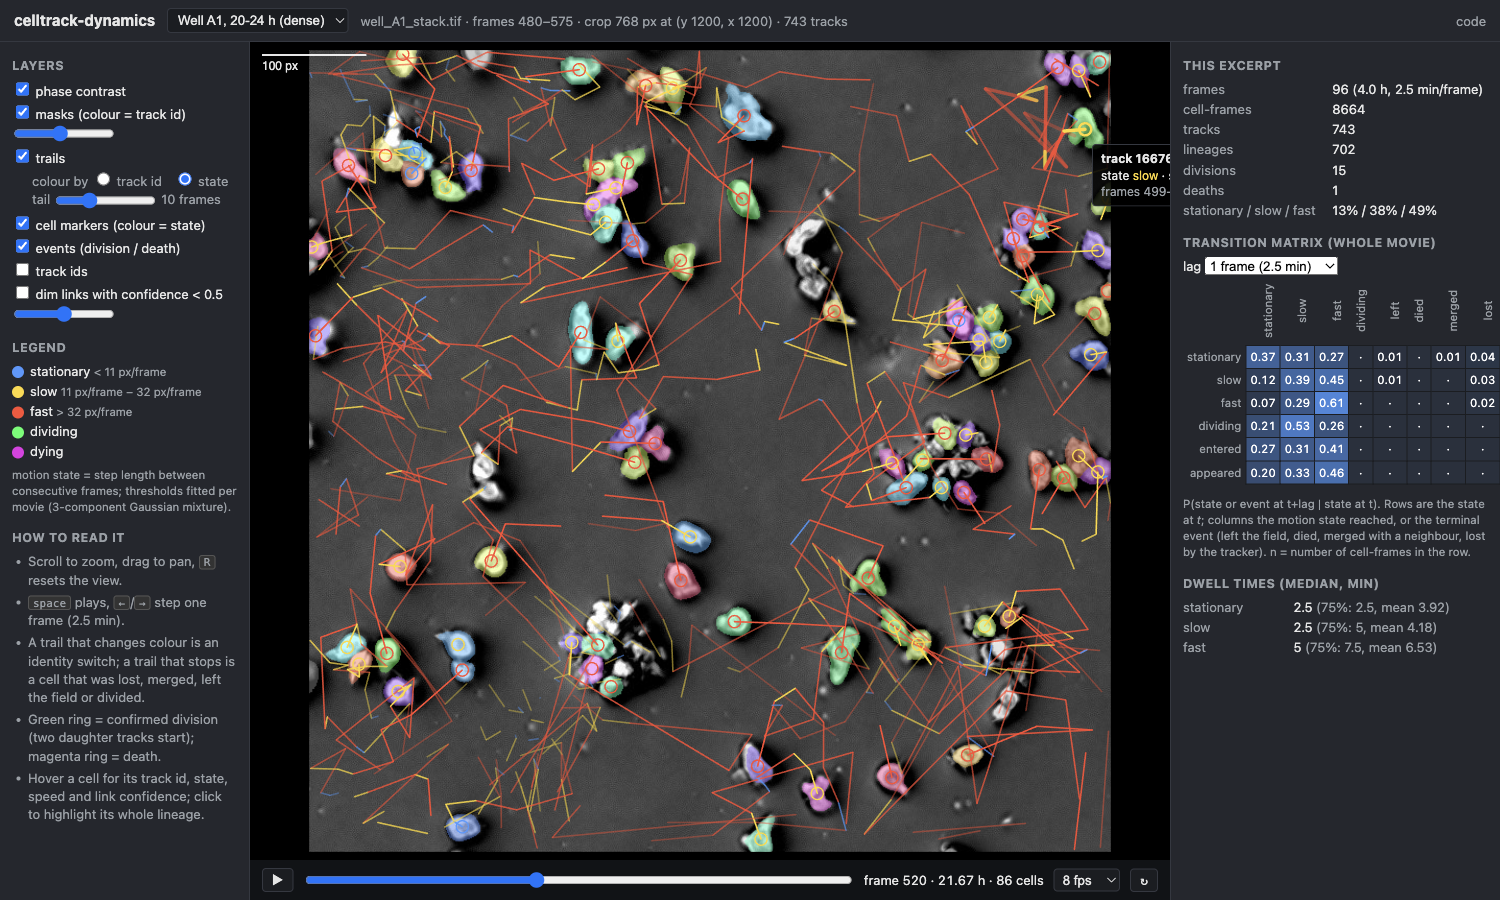
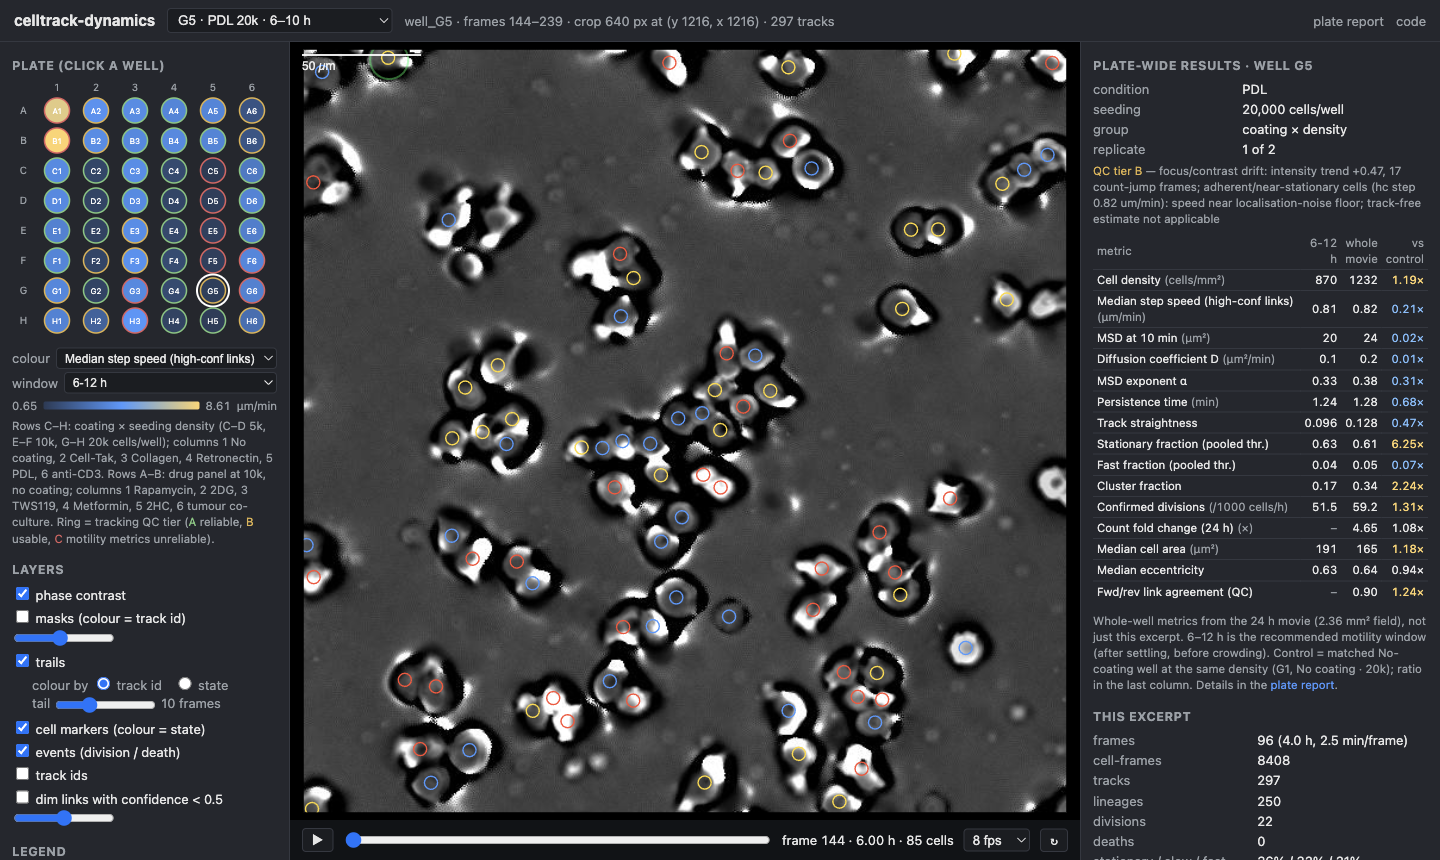
Web viewer: plate-map well selector, per-well plate-wide results panel; export-web --well/--source/--quality/--min-cells

diff --git a/demo/web/app.js b/demo/web/app.js
@@ -23,10 +23,20 @@ const rgb = (c, a = 1) => `rgba(${c[0]},${c[1]},${c[2]},${a})`;
 
 // ----------------------------------------------------------------------------- data
 async function loadIndex() {
-  const idx = await (await fetch("data/index.json")).json();
-  UI.dataset.innerHTML = idx.map((e) => `<option value="${e.tag}">${e.label}</option>`).join("");
-  const want = new URLSearchParams(location.search).get("d");
+  const [idx, plate] = await Promise.all([
+    fetch("data/index.json").then((r) => r.json()),
+    fetch("data/plate.json").then((r) => (r.ok ? r.json() : null)).catch(() => null),
+  ]);
+  S.index = idx; S.plate = plate;
+  S.tagByWell = new Map(idx.filter((e) => e.well).map((e) => [e.well, e.tag]));
+  const opt = (e) => `<option value="${e.tag}">${e.label}</option>`;
+  const wells = idx.filter((e) => e.well).sort((a, b) => a.well.localeCompare(b.well, undefined, { numeric: true })), other = idx.filter((e) => !e.well);
+  UI.dataset.innerHTML = (wells.length ? `<optgroup label="Plate wells (6–10 h excerpts)">${wells.map(opt).join("")}</optgroup>` : "") +
+    (other.length ? `<optgroup label="Other excerpts">${other.map(opt).join("")}</optgroup>` : "");
+  const q = new URLSearchParams(location.search), want = q.get("d") || (q.get("w") && S.tagByWell.get(q.get("w").toUpperCase()));
   if (want && idx.some((e) => e.tag === want)) UI.dataset.value = want;
+  else if (S.tagByWell.has("E1")) UI.dataset.value = S.tagByWell.get("E1");   // default: a tier-A control well
+  if (plate) initPlate();
   await loadDataset(UI.dataset.value);
 }
 
@@ -40,10 +50,10 @@ async function loadDataset(tag) {
   S.byFrame = Array.from({ length: meta.n_frames }, () => []);
   for (const k of S.tracks) k.pts.forEach((p, i) => S.byFrame[p[0]].push({ track: k, i }));
   S.frames = new Array(meta.n_frames).fill(null); S.masks = new Array(meta.n_frames).fill(null);
-  history.replaceState(null, "", `?d=${tag}`);
+  history.replaceState(null, "", meta.well ? `?w=${meta.well}` : `?d=${tag}`);
   $("title").textContent = `${meta.source}  ·  frames ${meta.start}–${meta.stop - 1}  ·  crop ${meta.crop[2]} px at (y ${meta.crop[0]}, x ${meta.crop[1]})  ·  ${meta.n_tracks} tracks`;
   UI.time.max = meta.n_frames - 1; S.t = 0; UI.time.value = 0;
-  renderLegend(); renderStats(); renderMatrix(); renderDwell(); renderSelection();
+  renderLegend(); renderStats(); renderMatrix(); renderDwell(); renderSelection(); renderWell(); markCurrentWell();
   resetView();
   // preload frames progressively (first the current one)
   frameImage(0); await awaitImg(S.frames[0]);
@@ -200,6 +210,98 @@ function renderSelection() {
     "frames": `${S.meta.start + f0} – ${S.meta.start + f1}`, "cell-frames": n, "mean step": `${mean.toFixed(1)} px/frame`,
     "divisions": ks.filter((k) => k.end === "divided").length, "ends": ks.map((k) => k.end || "outside excerpt").join(", "),
   });
+  sec.hidden = false;
+}
+
+// ----------------------------------------------------------------------------- plate map + plate-wide results
+const PLATE_ROWS = "ABCDEFGH", PLATE_COLS = [1, 2, 3, 4, 5, 6];
+const WELL_METRICS = ["cells_per_mm2", "hc_median_step_um_min", "msd_10min_um2", "D_um2_per_min", "msd_alpha", "persistence_time_min",
+  "median_straightness", "frac_stationary", "frac_fast", "cluster_fraction", "division_rate_per_1000cells_h", "count_fold_change",
+  "median_area_um2", "median_eccentricity", "bidir_fraction_full"];
+const wellOf = (meta) => meta.well || ((meta.source || "").match(/well_([A-H]\d+)/) || [])[1] || null;
+const plateWell = (w) => S.plate && S.plate.wells.find((x) => x.well === w);
+function controlOf(w) { return w.group === "drug" ? plateWell(w.row === "A" ? "E1" : "F1") : plateWell(`${w.row}1`); }
+function metricVal(w, metric, win) { const m = w.m[metric]; if (!m) return undefined; return m[win] !== undefined ? m[win] : m.all; }
+function fmtVal(v, dec) { return v === undefined || v === null || Number.isNaN(v) ? "–" : (+v).toFixed(dec); }
+function condLabel(w) { return `${w.condition}${w.group === "coating" ? ` · ${w.density / 1000}k` : ""}`; }
+/* 3-stop colour map (dark blue → accent → amber), u in [0,1] */
+function cmap(u) {
+  const st = [[42, 58, 85], [76, 153, 255], [255, 211, 106]]; u = Math.max(0, Math.min(1, u)) * 2;
+  const i = Math.min(1, Math.floor(u)), f = u - i, a = st[i], b = st[i + 1];
+  return `rgb(${a.map((x, k) => Math.round(x + (b[k] - x) * f)).join(",")})`;
+}
+
+function initPlate() {
+  const P = S.plate, pm = $("plate-metric"), pw = $("plate-window");
+  pm.innerHTML = Object.entries(P.metrics).filter(([k]) => WELL_METRICS.includes(k)).map(([k, v]) => `<option value="${k}">${v[0]}</option>`).join("");
+  pm.value = "hc_median_step_um_min";
+  pw.innerHTML = P.windows.map((w) => `<option value="${w}">${w === "all" ? "whole movie" : w.replace("h", " h")}</option>`).join("");
+  pw.value = "6-12h";
+  pm.onchange = pw.onchange = () => { drawPlate(); renderWell(); };
+  // static geometry: 6 columns × 8 rows, labels on the top/left
+  const svg = $("plate"), X0 = 24, Y0 = 16, DX = 39, DY = 30, R = 12.5;
+  let h = PLATE_COLS.map((c, j) => `<text x="${X0 + j * DX + DX / 2}" y="11" text-anchor="middle">${c}</text>`).join("");
+  [...PLATE_ROWS].forEach((r, i) => { h += `<text x="10" y="${Y0 + i * DY + DY / 2 + 3.5}" text-anchor="middle">${r}</text>`; });
+  for (const w of P.wells) {
+    const cx = X0 + (w.col - 1) * DX + DX / 2, cy = Y0 + PLATE_ROWS.indexOf(w.row) * DY + DY / 2;
+    h += `<g data-well="${w.well}"><circle class="cur" cx="${cx}" cy="${cy}" r="${R + 3.5}" fill="none" stroke="none" stroke-width="2"/>` +
+      `<circle class="well tier-${w.tier || "x"}" data-well="${w.well}" cx="${cx}" cy="${cy}" r="${R}" fill="#333"/>` +
+      `<text class="lbl" x="${cx}" y="${cy + 3}">${w.well}</text></g>`;
+  }
+  svg.innerHTML = h;
+  svg.onclick = (e) => { const g = e.target.closest("[data-well]"); if (!g) return; const tag = S.tagByWell.get(g.dataset.well); if (tag) { UI.dataset.value = tag; loadDataset(tag); } };
+  const tip = $("plate-tip"), sec = $("plate-section");
+  svg.onmousemove = (e) => {
+    const g = e.target.closest("[data-well]"); if (!g) { tip.hidden = true; return; }
+    const w = plateWell(g.dataset.well), m = P.metrics[pm.value], v = metricVal(w, pm.value, pw.value);
+    tip.innerHTML = `<b>${w.well}</b> · ${condLabel(w)} · tier ${w.tier || "?"}<br><span class="muted">${m[0]}:</span> ${fmtVal(v, m[2])} ${m[1]}` +
+      (S.tagByWell.has(w.well) ? "" : `<br><span class="muted">no excerpt exported</span>`);
+    const r = sec.getBoundingClientRect(); tip.style.left = `${Math.min(e.clientX - r.left + 12, r.width - 170)}px`; tip.style.top = `${e.clientY - r.top + 12}px`; tip.hidden = false;
+  };
+  svg.onmouseleave = () => { tip.hidden = true; };
+  drawPlate();
+}
+function drawPlate() {
+  const P = S.plate; if (!P) return;
+  const metric = $("plate-metric").value, win = $("plate-window").value, m = P.metrics[metric];
+  const vals = P.wells.map((w) => metricVal(w, metric, win)).filter((v) => typeof v === "number" && !Number.isNaN(v));
+  const lo = Math.min(...vals), hi = Math.max(...vals), span = hi - lo || 1;
+  for (const w of P.wells) {
+    const v = metricVal(w, metric, win), el = $("plate").querySelector(`circle.well[data-well="${w.well}"]`);
+    el.setAttribute("fill", typeof v === "number" && !Number.isNaN(v) ? cmap((v - lo) / span) : "#333");
+  }
+  const onlyAll = vals.length && P.wells.every((w) => !w.m[metric] || w.m[metric][win] === undefined);
+  $("plate-scale").innerHTML = `<span>${fmtVal(lo, m[2])}</span><span class="bar"></span><span>${fmtVal(hi, m[2])}</span>` +
+    `<span>${m[1]}${onlyAll && win !== "all" ? " (whole movie)" : ""}</span>`;
+}
+function markCurrentWell() {
+  if (!S.plate) return;
+  const cur = S.meta && wellOf(S.meta);
+  for (const g of $("plate").querySelectorAll("g[data-well]")) g.querySelector(".cur").setAttribute("stroke", g.dataset.well === cur ? "#fff" : "none");
+}
+function renderWell() {
+  const sec = $("well-section"), w = S.plate && S.meta && plateWell(wellOf(S.meta));
+  if (!w) { sec.hidden = true; return; }
+  const P = S.plate, ctrl = controlOf(w), isCtrl = ctrl && ctrl.well === w.well, win = $("plate-window").value;
+  $("well-title").textContent = `· well ${w.well}`;
+  $("well-info").innerHTML = kv({
+    "condition": w.condition, "seeding": `${w.density.toLocaleString()} cells/well`,
+    "group": w.group === "drug" ? "drug panel (no coating)" : "coating × density", "replicate": `${w.replicate} of 2`,
+  });
+  const tierCls = { A: "tier-a", B: "tier-b", C: "tier-c" }[w.tier] || "muted";
+  $("well-tier").innerHTML = `<span class="${tierCls}">QC tier ${w.tier || "?"}</span> <span class="muted">— ${w.tier_reason || ""}</span>`;
+  $("well-ctrl").textContent = ctrl ? `${ctrl.well}, ${condLabel(ctrl)}` : "n/a";
+  const winLbl = win === "all" ? "whole movie" : win.replace("h", " h"), allCol = win !== "all";
+  let h = `<tr><th>metric</th><th>${winLbl}</th>${allCol ? "<th>whole movie</th>" : ""}<th>${isCtrl ? "" : "vs control"}</th></tr>`;
+  for (const k of WELL_METRICS) {
+    const m = P.metrics[k]; if (!m || !w.m[k]) continue;
+    const vw = w.m[k][win], va = w.m[k].all, vc = ctrl ? metricVal(ctrl, k, win) : undefined, v = vw !== undefined ? vw : va;
+    const ratio = !isCtrl && typeof v === "number" && typeof vc === "number" && vc !== 0 ? v / vc : undefined;
+    const rc = ratio === undefined ? "na" : ratio > 1.15 ? "up" : ratio < 0.85 ? "down" : "";
+    h += `<tr><td title="${k}">${m[0]}${m[1] ? ` <span class="muted">(${m[1]})</span>` : ""}</td><td${vw === undefined ? ' class="na"' : ""}>${fmtVal(vw, m[2])}</td>${allCol ? `<td>${fmtVal(va, m[2])}</td>` : ""}` +
+      `<td class="${rc}">${isCtrl ? '<span class="muted">control</span>' : ratio === undefined ? "–" : `${ratio.toFixed(2)}×`}</td></tr>`;
+  }
+  $("well-metrics").innerHTML = h;
   sec.hidden = false;
 }
 

diff --git a/demo/web/style.css b/demo/web/style.css
@@ -9,7 +9,29 @@ header select { background: var(--bg); color: var(--fg); border: 1px solid var(-
 .muted { color: var(--muted); }
 .small { font-size: 11.5px; }
 a { color: var(--accent); text-decoration: none; }
-main { flex: 1; display: grid; grid-template-columns: 250px 1fr 330px; min-height: 0; }
+main { flex: 1; display: grid; grid-template-columns: 290px 1fr 360px; min-height: 0; }
+#plate-section { position: relative; }
+#plate { display: block; width: 100%; max-width: 262px; margin: 2px auto 6px; }
+#plate .well { cursor: pointer; stroke: var(--border); stroke-width: 1.5; }
+#plate .well.tier-A { stroke: #7cc77c; } #plate .well.tier-B { stroke: #e0b24a; } #plate .well.tier-C { stroke: #e06060; }
+#plate .well:hover { stroke: #fff; stroke-width: 2; }
+#plate .cur { pointer-events: none; }
+#plate text { fill: var(--muted); font-size: 10px; }
+#plate text.lbl { fill: #fff; font-size: 8px; pointer-events: none; text-anchor: middle; }
+#plate-tip { position: absolute; z-index: 2; pointer-events: none; background: rgba(0,0,0,.9); border: 1px solid var(--border); border-radius: 4px; padding: 5px 8px; font-size: 12px; white-space: nowrap; }
+.plate-ctl label { display: flex; align-items: center; gap: 6px; color: var(--muted); }
+.plate-ctl select { flex: 1; min-width: 0; background: var(--bg); color: var(--fg); border: 1px solid var(--border); border-radius: 4px; padding: 2px 4px; font-size: 12px; }
+#plate-scale { display: flex; align-items: center; gap: 6px; margin: 4px 0; font-variant-numeric: tabular-nums; }
+#plate-scale .bar { flex: 1; height: 8px; border-radius: 2px; background: linear-gradient(90deg, #2a3a55, #4c99ff, #ffd36a); }
+.plate-key { margin: 4px 0 0; }
+.tier-a { color: #7cc77c; } .tier-b { color: #e0b24a; } .tier-c { color: #e06060; }
+#well-tier { margin: 4px 0 6px; }
+table.metrics { border-collapse: collapse; width: 100%; font-size: 11.5px; font-variant-numeric: tabular-nums; }
+table.metrics th { color: var(--muted); font-weight: normal; text-align: right; padding: 2px 4px; }
+table.metrics th:first-child, table.metrics td:first-child { text-align: left; white-space: normal; width: 100%; }
+table.metrics td { text-align: right; padding: 2px 4px; border-top: 1px solid var(--border); white-space: nowrap; }
+table.metrics td.up { color: #ffd36a; } table.metrics td.down { color: #7cc0ff; }
+table.metrics td.na { color: var(--muted); }
 aside { background: var(--panel); overflow-y: auto; padding: 8px 12px; }
 #left { border-right: 1px solid var(--border); }
 #right { border-left: 1px solid var(--border); }
@@ -43,4 +65,8 @@ table.matrix th.rot { writing-mode: vertical-rl; transform: rotate(180deg); heig
 .swatch { display: inline-block; width: 12px; height: 12px; border-radius: 50%; vertical-align: middle; margin-right: 6px; }
 #legend div { margin: 2px 0; }
 #clear-sel { margin-top: 6px; background: var(--bg); color: var(--fg); border: 1px solid var(--border); border-radius: 4px; padding: 2px 8px; cursor: pointer; }
-@media (max-width: 1000px) { main { grid-template-columns: 1fr; grid-template-rows: auto 70vh auto; } #left, #right { border: none; } }
+@media (max-width: 1100px) {
+  html, body { height: auto; }
+  main { grid-template-columns: 1fr; grid-template-rows: auto 70vh auto; }
+  aside { overflow: visible; } #left, #right { border: none; }
+}

diff --git a/demo/web/index.html b/demo/web/index.html
@@ -11,11 +11,27 @@
   <strong>celltrack-dynamics</strong>
   <select id="dataset" title="dataset"></select>
   <span id="title" class="muted"></span>
-  <a class="muted right" href="https://github.com/dushanw/celltrack-dynamics" target="_blank" rel="noopener">code</a>
+  <a class="muted right" href="plate/report.html" target="_blank" rel="noopener">plate report</a>
+  <a class="muted" href="https://github.com/dushanw/celltrack-dynamics" target="_blank" rel="noopener">code</a>
 </header>
 
 <main>
   <aside id="left">
+    <section id="plate-section">
+      <h3>Plate <span class="muted">(click a well)</span></h3>
+      <svg id="plate" viewBox="0 0 262 262" role="img" aria-label="96-well plate map, 48 imaged wells"></svg>
+      <div id="plate-tip" hidden></div>
+      <div class="plate-ctl">
+        <label>colour <select id="plate-metric"></select></label>
+        <label>window <select id="plate-window"></select></label>
+      </div>
+      <div id="plate-scale" class="muted small"></div>
+      <p class="muted small plate-key">
+        Rows C–H: coating × seeding density (C–D 5k, E–F 10k, G–H 20k cells/well); columns 1 No coating, 2 Cell-Tak, 3 Collagen, 4 Retronectin, 5 PDL, 6 anti-CD3.
+        Rows A–B: drug panel at 10k, no coating; columns 1 Rapamycin, 2 2DG, 3 TWS119, 4 Metformin, 5 2HC, 6 tumour co-culture.
+        Ring = tracking QC tier (<span class="tier-a">A</span> reliable, <span class="tier-b">B</span> usable, <span class="tier-c">C</span> motility metrics unreliable).
+      </p>
+    </section>
     <section>
       <h3>Layers</h3>
       <label><input type="checkbox" id="l-image" checked> phase contrast</label>
@@ -41,6 +57,7 @@
     <section>
       <h3>How to read it</h3>
       <ul class="help">
+        <li>Each well shows a 640 px (320 µm) excerpt of frames 144–239 (6–10 h). Sparse wells use the densest region of the field instead of the centre.</li>
         <li>Scroll to zoom, drag to pan, <kbd>R</kbd> resets the view.</li>
         <li><kbd>space</kbd> plays, <kbd>&larr;</kbd>/<kbd>&rarr;</kbd> step one frame (2.5 min).</li>
         <li>A trail that changes colour is an identity switch; a trail that stops is a cell that was lost, merged, left the field or divided.</li>
@@ -66,6 +83,15 @@
   </div>
 
   <aside id="right">
+    <section id="well-section" hidden>
+      <h3>Plate-wide results <span id="well-title" class="muted"></span></h3>
+      <div id="well-info" class="kv"></div>
+      <div id="well-tier" class="small"></div>
+      <table class="metrics" id="well-metrics"></table>
+      <p class="muted small">Whole-well metrics from the 24 h movie (2.36 mm² field), not just this excerpt.
+        6–12 h is the recommended motility window (after settling, before crowding). Control = matched No-coating well at the same density
+        (<span id="well-ctrl"></span>); ratio in the last column. Details in the <a href="plate/report.html" target="_blank" rel="noopener">plate report</a>.</p>
+    </section>
     <section>
       <h3>This excerpt</h3>
       <div id="stats" class="kv"></div>

diff --git a/celltrack/view.py b/celltrack/view.py
@@ -249,11 +249,27 @@ def cmd_export_web(args, cfg):
     import imageio.v3 as iio
 
     crop = args.crop or (1200, 1200, 768)
+    if args.min_cells is not None:
+        # sparse wells: move the crop to the densest region of the field if the requested one
+        # holds fewer than --min-cells cells per frame on average
+        from .validate import _pick_crop
+
+        det = pd.read_parquet(cfg["paths"]["detections"], columns=["frame", "y", "x"])
+        stop = min(args.stop, cfg["acquisition"]["n_frames"])
+        y0, x0, s = crop
+        sub = det[(det.frame >= args.start) & (det.frame < stop)]
+        n_in = ((sub.y >= y0) & (sub.y < y0 + s) & (sub.x >= x0) & (sub.x < x0 + s)).sum()
+        if n_in < args.min_cells * (stop - args.start):
+            picked = _pick_crop(det, args.start, stop, cfg["acquisition"]["shape_yx"], size=s, min_per_frame=10**9)
+            if picked is not None:
+                crop = (picked[1], picked[2], s)
+                log.info("Crop moved to the densest %d px region at y=%d x=%d (%d cells in the requested crop)", s, crop[0], crop[1], n_in)
     args.crop = crop
     img, lab, start, stop = _load_window(cfg, args)
     img, lab = np.asarray(img), np.asarray(lab)
     d = load_states(cfg, args.name, start, stop, crop, args.fraction, args.seed)
-    tag = args.tag or f"{Path(cfg['paths']['raw_tif']).stem.replace('_stack', '')}_f{start}-{stop}"
+    source = args.source or Path(cfg["paths"]["raw_tif"]).name
+    tag = args.tag or f"{Path(source).stem.replace('_stack', '')}_f{start}-{stop}"
     from .common import ROOT
 
     out = Path(args.out or (ROOT / "demo" / "web" / "data")) / tag
@@ -263,7 +279,7 @@ def cmd_export_web(args, cfg):
     # frames + mask overlays (colour = track id so identities can be followed on the masks too)
     tid_of = {(int(f), int(l)): int(t) for f, l, t in d[["frame", "label", "track_id"]].itertuples(index=False)}
     for i in range(stop - start):
-        iio.imwrite(out / "frames" / f"{i:03d}.jpg", img[i], quality=85)
+        iio.imwrite(out / "frames" / f"{i:03d}.jpg", img[i], quality=args.quality)
         m = lab[i]
         labels = np.unique(m)
         labels = labels[labels > 0]
@@ -301,7 +317,7 @@ def cmd_export_web(args, cfg):
             mats[f"lag{lag}"] = dict(rows=list(m.index), cols=list(m.columns), probs=m.round(3).values.tolist(),
                                      n=[int(x) for x in n.reindex(m.index).fillna(0)] if n is not None else None)
     summary = json.loads((tr / "summary.json").read_text()) if (tr / "summary.json").exists() else {}
-    meta = dict(tag=tag, name=args.name, source=Path(cfg["paths"]["raw_tif"]).name, start=start, stop=stop, crop=list(crop),
+    meta = dict(tag=tag, name=args.name, source=source, well=args.well, start=start, stop=stop, crop=list(crop),
                 size=int(crop[2]), n_frames=stop - start, frame_interval_min=cfg["acquisition"]["frame_interval_min"],
                 pixel_size_um=cfg["acquisition"]["pixel_size_um"], n_tracks=len(tracks), n_cells=len(d),
                 n_lineages=int(d.lineage_id.nunique()), n_divisions=int((d.state == "dividing").sum()),
@@ -316,8 +332,11 @@ def cmd_export_web(args, cfg):
     # register in the viewer's dataset index
     idx_p = out.parent / "index.json"
     idx = json.loads(idx_p.read_text()) if idx_p.exists() else []
-    idx = [e for e in idx if e["tag"] != tag] + [dict(tag=tag, label=args.label or f"{meta['source']}  frames {start}-{stop - 1} "
-                                                       f"({start * meta['frame_interval_min'] / 60:.0f}-{stop * meta['frame_interval_min'] / 60:.0f} h)")]
+    entry = dict(tag=tag, label=args.label or f"{meta['source']}  frames {start}-{stop - 1} "
+                                              f"({start * meta['frame_interval_min'] / 60:.0f}-{stop * meta['frame_interval_min'] / 60:.0f} h)")
+    if args.well:
+        entry["well"] = args.well
+    idx = [e for e in idx if e["tag"] != tag] + [entry]
     idx_p.write_text(json.dumps(sorted(idx, key=lambda e: e["tag"]), indent=1))
     size = sum(p.stat().st_size for p in out.rglob("*") if p.is_file()) / 1e6
     log.info("Wrote %s (%.1f MB): %d frames, %d tracks, %d events", out, size, stop - start, len(tracks), len(events))
@@ -328,6 +347,11 @@ def main(argv=None):
     ap.add_argument("cmd", choices=["napari", "movie", "export-demo", "export-web"])
     ap.add_argument("--tag", default=None, help="export-web: dataset id (default <well>_f<start>-<stop>)")
     ap.add_argument("--label", default=None, help="export-web: label shown in the dataset menu")
+    ap.add_argument("--well", default=None, help="export-web: well id (e.g. A1) stored in meta.json and the dataset index")
+    ap.add_argument("--source", default=None, help="export-web: movie name shown in the viewer (default: raw TIFF file name)")
+    ap.add_argument("--quality", type=int, default=85, help="export-web: JPEG quality of the frames")
+    ap.add_argument("--min-cells", type=float, default=None,
+                    help="export-web: if the crop holds fewer cells per frame than this, move it to the densest region of the field")
     ap.add_argument("--config", default=None)
     ap.add_argument("--out", default=None, help="export-demo: output zip path")
     ap.add_argument("--name", default="hoct")

diff --git a/README.md b/README.md
@@ -201,18 +201,26 @@ python -m celltrack.view napari --name hoct --fraction 0.1 --seed 2
 
 ### Live browser demo (nothing to install)
 
-**https://wadduwagelab.com/demos/celltrack/** — two 96-frame, 768 × 768 px excerpts of well A1
-(0–4 h sparse, 20–24 h dense) in a static HTML/JS viewer: zoom/pan, time scrubbing, trails coloured
-by track id or state, masks coloured by track id, division/death rings, hover for track id / state /
-speed / link confidence, click to highlight a lineage, plus the transition matrix and dwell times.
+**https://wadduwagelab.com/demos/celltrack/** — a static HTML/JS viewer covering the whole plate.
+Click a well on the plate map (or pick it from the menu, or open `?w=G5`) to load that well's tracked
+movie: a 96-frame (6–10 h), 640 × 640 px (320 µm) excerpt per well, 48 wells, with zoom/pan, time
+scrubbing, trails coloured by track id or state, masks coloured by track id, division/death rings,
+hover for track id / state / speed / link confidence and click to highlight a lineage. The plate map is
+coloured by any whole-well metric and time window from §6 (ring colour = QC tier), and the right panel
+shows the selected well's condition, tier, and its metrics for the chosen window and the whole movie
+against the matched No-coating control, next to the excerpt's own transition matrix and dwell times.
+The two original well A1 excerpts (0–4 h sparse, 20–24 h dense, 768 px) are still in the menu.
 
 <p align="center"><img src="docs/images/web_viewer.png" width="90%"></p>
 
-The viewer is `demo/web/` (no build step); its data comes from
-`python -m celltrack.view export-web --name hoct --crop Y X SIZE --start A --stop B [--label "..."]`,
-which writes JPEG frames, RGBA mask overlays and `tracks.json` into `demo/web/data/<tag>/` (~14 MB per
-excerpt) and registers the excerpt in `data/index.json`. To publish, copy `demo/web/` to any static
-host; the live copy lives in the lab-website repository under `demos/celltrack/`.
+The viewer is `demo/web/` (no build step). Per-well excerpts come from
+`python -m celltrack.view export-web --config outputs/wells/well_E1/config.yaml --name hoct --crop 1216 1216 640 --start 144 --stop 240 --quality 72 --min-cells 15 --tag E1 --well E1 --source well_E1 --label "..."`,
+which writes JPEG frames, RGBA mask overlays, `tracks.json` and `meta.json` into `demo/web/data/<tag>/`
+(~5 MB per well at quality 72) and registers the excerpt in `data/index.json`; `--min-cells` moves the
+crop to the densest region of the field for sparse wells (C5, D5, …). `demo/web/data/plate.json` holds
+the per-well metrics, transition matrices and QC tiers (the same table the plate dashboard uses, built
+from `outputs/wells/plate/`). To publish, copy `demo/web/` to any static host; the live copy lives in
+the lab-website repository under `demos/celltrack/` (~300 MB with all 48 wells).
 
 ### napari demo for collaborators (no data, no GPU)
 
